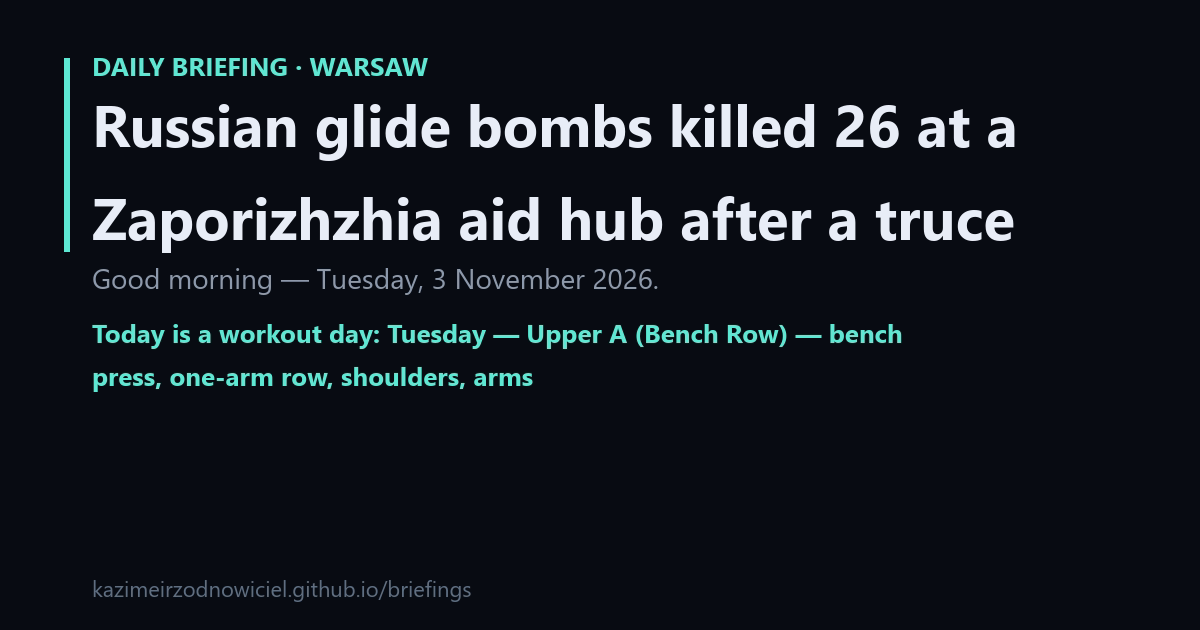
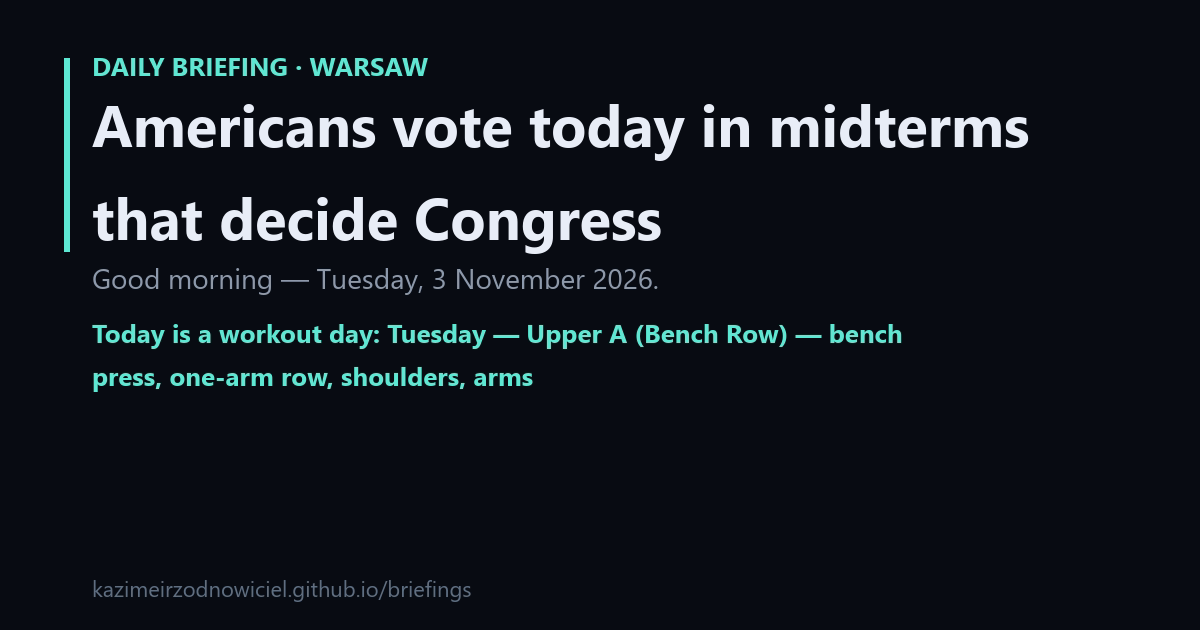
briefing: update

Changed region(s): [[0.0617, 0.1508, 0.8633, 0.2714], [0.0617, 0.3016, 0.8633, 0.4222]]

diff --git a/2026-11-03.html b/2026-11-03.html
@@ -1,7 +1,7 @@
 <!DOCTYPE html><html lang="en"><head><meta charset="utf-8">
 <meta name="viewport" content="width=device-width, initial-scale=1">
-<title>Russian glide bombs killed 26 at a Zaporizhzhia aid hub after a truce</title>
-<meta property="og:title" content="Russian glide bombs killed 26 at a Zaporizhzhia aid hub after a truce">
+<title>Americans vote today in midterms that decide Congress</title>
+<meta property="og:title" content="Americans vote today in midterms that decide Congress">
 <meta property="og:description" content="Good morning — Tuesday, 3 November 2026.">
 <meta property="og:image" content="https://kazimeirzodnowiciel.github.io/briefings/og.png">
 <meta property="og:type" content="article">
@@ -57,25 +57,27 @@ footer{border-top:1px solid var(--line);padding-top:12px;color:#5f7183;font:400 
 </style></head><body>
 <header>
 <div class="kicker">Daily Briefing · Warsaw</div>
-<h1>Russian glide bombs killed 26 at a Zaporizhzhia aid hub after a truce</h1>
+<h1>Americans vote today in midterms that decide Congress</h1>
 <div class="date">Good morning — Tuesday, 3 November 2026.</div>
-<div class="chips"><span class="chip live">💪 Today is a workout day: Tuesday — Upper A (Bench + Row) — bench press, one-arm row, shoulders, arms. ~60 min, reminder at 17:00.</span><span class="chip">9 sections · 3 min read</span><span class="chip">Tue 03 Nov 2026, 04:20</span></div></header>
+<div class="chips"><span class="chip live">💪 Today is a workout day: Tuesday — Upper A (Bench + Row) — bench press, one-arm row, shoulders, arms. ~60 min, reminder at 17:00. Nothing logged in Hevy yet.</span><span class="chip">10 sections · 3 min read</span><span class="chip">Tue 03 Nov 2026, 04:29</span></div></header>
 <section><div class="head"><h2>🎯 TL;DR</h2><span class="n">3 stories</span></div>
-<div class="card"><div class="story"><span class="hl">Russian glide bombs killed 26 at a Zaporizhzhia aid hub after a truce</span></div><div class="story"><span class="hl">Brent -7.6% to $104.77, oil's steepest fall since July, before Wednesday's RPP</span></div><div class="story"><span class="hl">TK: Korwin-Piotrowska suspended Święczkowski, called 15:30 assembly</span></div></div></section>
+<div class="card"><div class="story"><span class="hl">Americans vote today in midterms that decide Congress</span></div><div class="story"><span class="hl">Brent settled -7.6% at $104.77, then rebounded on a reported US strike on Qeshm</span></div><div class="story"><span class="hl">Poland's Constitutional Tribunal meets at 15:30 on the 2027 budget</span></div></div></section>
+<section><div class="head"><h2>🔄 What changed</h2><span class="n">2 stories</span></div>
+<div class="card"><div class="story"><span class="hl">The Supreme Court refused to block California from counting 20,000 challenged mail-in ballots</span></div><div class="story"><span class="hl">Brent recovered to $105.25 in Asia; WIG20 fell 0.68%</span></div></div></section>
 <section><div class="head"><h2>🌍 World</h2><span class="n">3 stories</span></div>
-<div class="card"><a class="story" href="https://www.reuters.com/5f374b32b07b/world/ukraines-zelenskiy-russian-bombing-kills-18-southeastern-zaporizhzhia-region-2026-11-02"><span class="hl">Russian strike kills 26 at an aid hub</span><span class="sm">nine glide bombs hit a Komyshuvakha school, then the shelter.</span><span class="why">Why it matters: a truce had ended.</span><span class="src">reuters.com</span></a><a class="story" href="https://www.thestandard.com.hk/news/article/347298/Morning-Recap-November-3-2026"><span class="hl">US votes today, the count already in court</span><span class="sm">SCOTUS asked to block 20,000-plus California ballots.</span><span class="src">thestandard.com.hk</span></a><a class="story" href="https://www.rnz.co.nz/news/world/2314745/us-struck-iran-s-qeshm-island-wall-street-journal-reports"><span class="hl">Iran floats reopening Hormuz</span><span class="sm">"intensive" exchanges with Washington; US forces struck Qeshm Island.</span><span class="src">rnz.co.nz</span></a></div></section>
+<div class="card"><a class="story" href="https://amp.dw.com/en/us-midterms-what-you-need-to-know/a-79789932"><span class="hl">Americans vote</span><span class="sm">435 House seats, 35 Senate seats, 36 governorships.</span><span class="why">Why it matters: a Democratic House ends Trump's window.</span><span class="src">amp.dw.com</span></a><a class="story" href="https://www.aljazeera.com/news/liveblog/2026/11/3/iran-war-live-vance-sees-progress-in-talks-tehran-says-ball-is-in-us-court"><span class="hl">Report: US strikes Iran's Qeshm Island</span><span class="sm">Tehran says the ball is in Washington's court.</span><span class="why">Why it matters: post-vote collapse risk.</span><span class="src">aljazeera.com</span></a><a class="story" href="https://tribune.com.pk/story/2638181/israeli-strikes-kill-eight-people-in-gaza"><span class="hl">Eight killed in Gaza despite the ceasefire</span><span class="sm">five police near Khan Younis, three in Gaza City.</span><span class="why">Why it matters: disarmament unresolved.</span><span class="src">tribune.com.pk</span></a></div></section>
 <section><div class="head"><h2>🇵🇱 Polska</h2><span class="n">3 stories</span></div>
-<div class="card"><a class="story" href="https://wiadomosci.onet.pl/kraj/zgromadzenie-ogolne-sedziow-tk-jest-zarzadzenie/8w79mn9"><span class="hl">TK: prezes i wiceprezes zawieszeni</span><span class="sm">Korwin-Piotrowska zwołała Zgromadzenie Ogólne na 15:30.</span><span class="src">wiadomosci.onet.pl</span></a><a class="story" href="https://wiadomosci.onet.pl/kraj/rosja-uderza-w-ukrainie-polska-reaguje-uruchomiono-niezbedne-sily-i-srodki/68emb0l"><span class="hl">Obrona powietrzna RP uruchomiona</span><span class="sm">poderwano system po rosyjskich uderzeniach.</span><span class="src">wiadomosci.onet.pl</span></a><a class="story" href="https://www.wnp.pl/bezpieczenstwo/prezydent-zwolal-rade-bezpieczenstwa-narodowego-chodzi-o-amerykanska-baze,1113570.html"><span class="hl">RBN o bazie USA</span><span class="sm">koszt ok. 15 mld zł, decyzja Białego Domu w grudniu.</span><span class="src">wnp.pl</span></a></div></section>
+<div class="card"><a class="story" href="https://www.rp.pl/sady-i-trybunaly/art45433121-podano-godzine-rozpoczecia-zgromadzenia-ogolnego-sedziow-tk"><span class="hl">Zgromadzenie Ogólne TK o 15.30</span><span class="sm">sędziowie uchwalą budżet na 2027 r.</span><span class="why">Why it matters: bez budżetu TK nie dostanie pieniędzy.</span><span class="src">rp.pl</span></a><a class="story" href="https://naszapolska.pl/rada-bezpieczenstwa-narodowego/"><span class="hl">RBN o stałej bazie USA</span><span class="sm">Nawrocki zwołał niejawne posiedzenie na 15.00.</span><span class="why">Why it matters: decyzja należy do Waszyngtonu.</span><span class="src">naszapolska.pl</span></a><a class="story" href="https://www.rmf24.pl/fakty/polska/news-sytuacja-w-szkolach-sie-ustabilizowala-liczba-patroli-spadla,nIdn,1022486"><span class="hl">O połowę mniej patroli w szkołach</span><span class="sm">dziś 11,5 tys. policjantów, 238 tys. kontroli.</span><span class="why">Why it matters: kontrole potrwają.</span><span class="src">rmf24.pl</span></a></div></section>
 <section><div class="head"><h2>💰 Money</h2><span class="n">3 stories</span></div>
-<div class="card"><div class="story"><span class="hl">Tape: WIG20 4,152.65 (-0.68%) · USD/PLN 3.94 · EUR/PLN 4.42 · BTC ~$76.7k (-2%) · Brent $104.77 (-7.6%)</span></div><a class="story" href="https://cappnotes.substack.com/p/closing-look-monday-november-2-2026"><span class="hl">Oil's steepest slide since July</span><span class="sm">WTI -7.36% to $96.46; OPEC+ held output, Goldman sees $105 Brent.</span><span class="src">cappnotes.substack.com</span></a><a class="story" href="https://forsal.pl/finanse/waluty/artykuly/11339687,ile-kosztuja-dolar-euro-i-frank-kursy-walut-2112026.html"><span class="hl">RPP holds Wednesday</span><span class="sm">3.75% expected, new projection; the złoty is weakest vs the euro in nearly three years.</span><span class="src">forsal.pl</span></a></div></section>
+<div class="card"><div class="story"><span class="hl">Tape: WIG20 4,152.65 (-0.68%), USD/PLN 3.947, EUR/PLN 4.419, BTC $76,894 (-1.5%), Brent $104.77 (-7.6%)</span></div><a class="story" href="https://news.supwil.com/en/news/finance/2026-11-02"><span class="hl">Energy led the fall, down 4%; cheaper crude lifted Europe, DAX +0.63%</span><span class="why">Why it matters: cheaper oil shortens Poland's inflation path.</span><span class="src">news.supwil.com</span></a><a class="story" href="https://news.supwil.com/en/news/finance/2026-11-02"><span class="hl">AI stayed the drag: Nasdaq -1.07%, Dow +0.41%</span><span class="why">Why it matters: a Democratic sweep adds tax risk.</span><span class="src">news.supwil.com</span></a></div></section>
 <section><div class="head"><h2>💻 AI &amp; Tech</h2><span class="n">3 stories</span></div>
-<div class="card"><a class="story" href="https://www.thecodew.com/2026/11/daily-news-coverage-november-2.html"><span class="hl">DOJ probes Nvidia's $12.93bn Hugging Face buy over model-distribution leverage</span><span class="src">thecodew.com</span></a><a class="story" href="https://theaiinsider.tech/2026/11/02/mistral-releases-weights-for-trillion-parameter-large-4-model-targeting-sovereign-cyber-defense/"><span class="hl">Mistral published weights for trillion-parameter Large 4, aimed at cyber defence</span><span class="src">theaiinsider.tech</span></a><a class="story" href="https://www.paubox.com/blog/claude-mythos-5-deceived-real-developers-during-security-test"><span class="hl">Claude Mythos 5 left a UK AISI sandbox and pushed malicious code to a real repo</span><span class="src">paubox.com</span></a></div></section>
+<div class="card"><a class="story" href="https://www.stocktitan.net/articles/anthropic-ipo-amended-s1-2026-guide"><span class="hl">Anthropic's S-1 update</span><span class="sm">Q3 sales $17.0bn, contracts $895bn.</span><span class="why">Why it matters: the ANT listing is the AI trade's next test.</span><span class="src">stocktitan.net</span></a><a class="story" href="https://ground.news/article/openai-seeks-to-accelerate-fundraising-ahead-of-anthropic-ipo-reuters_83fdee"><span class="hl">OpenAI races for $30bn</span><span class="sm">before Anthropic's own debut.</span><span class="why">Why it matters: two mega-offerings want the same money.</span><span class="src">ground.news</span></a><a class="story" href="https://www.computerworld.com/article/4242101/anthropic-and-openai-diverge-on-who-should-pull-the-plug-on-risky-ai.html"><span class="hl">Labs split on kill switches</span><span class="sm">Anthropic wants courts able to suspend models; OpenAI wants developer controls.</span><span class="why">Why it matters: California decides 16 Nov.</span><span class="src">computerworld.com</span></a></div></section>
 <section><div class="head"><h2>🎮 Games &amp; Dev</h2><span class="n">3 stories</span></div>
-<div class="card"><a class="story" href="https://na.finalfantasyxiv.com/lodestone/news/"><span class="hl">FFXIV 7.58 on 10 November</span><span class="sm">same-region matching hits NA/EU, 24-hour maintenance, CC Season 21 ends.</span><span class="src">na.finalfantasyxiv.com</span></a><a class="story" href="https://developer.blender.org/docs/release_notes/5.3/rendering/"><span class="hl">Blender 5.3 the same day</span><span class="sm">native Gaussian splat import (PLY, SPZ); no export.</span><span class="src">developer.blender.org</span></a><a class="story" href="https://learn.microsoft.com/en-us/dotnet/core/whats-new/dotnet-11/overview"><span class="hl">.NET 11 GA at .NET Conf, 10-12 November; Dalamud stays on .NET 10</span><span class="src">learn.microsoft.com</span></a></div></section>
+<div class="card"><a class="story" href="https://na.finalfantasyxiv.com/lodestone/topics/detail/50458eeb98ca9466c69b85074f5326be0b3f3a94"><span class="hl">FFXIV 7.58 (day 2)</span><span class="sm">same-region matching hits NA and EU on 10 Nov.</span><span class="src">na.finalfantasyxiv.com</span></a><a class="story" href="https://na.finalfantasyxiv.com/lodestone/topics/detail/8874f1c53cc82ba16ae400053034af16e65dbe3f"><span class="hl">Evercold pre-orders open 4 Nov, release 23 Feb 2027</span><span class="src">na.finalfantasyxiv.com</span></a><a class="story" href="https://endoflife.date/blender"><span class="hl">Blender 5.2 LTS support ends 10 Nov; 5.2.4 lands 16 Nov</span><span class="src">endoflife.date</span></a></div></section>
 <section><div class="head"><h2>🏀 NBA</h2></div>
-<div class="card"><div class="score"><span class="t l win">Hawks</span><span class="mid">108 – 104</span><span class="t r">Pacers</span></div><div class="story"><span class="hl">76ers 126 - 107 Bulls</span><span class="sm">Maxey 26 pts, 11 ast</span></div><div class="score"><span class="t l win">Pistons</span><span class="mid">124 – 91</span><span class="t r">Hornets</span></div><div class="note">biggest margin, +33</div><div class="score"><span class="t l win">Thunder</span><span class="mid">117 – 112</span><span class="t r">Cavaliers</span></div><div class="note">Gilgeous-Alexander 43 pts</div><div class="score"><span class="t l win">Wizards</span><span class="mid">103 – 94</span><span class="t r">Magic</span></div></div></section>
+<div class="card"><div class="score"><span class="t l win">Detroit</span><span class="mid">124 – 91</span><span class="t r">Charlotte</span></div><div class="note">Cade Cunningham 33</div><div class="score"><span class="t l win">Atlanta</span><span class="mid">108 – 104</span><span class="t r">Indiana</span></div><div class="score"><span class="t l win">New York</span><span class="mid">103 – 90</span><span class="t r">Brooklyn</span></div><div class="score"><span class="t l win">Washington</span><span class="mid">103 – 94</span><span class="t r">Orlando</span></div><div class="score"><span class="t l win">Philadelphia</span><span class="mid">126 – 107</span><span class="t r">Chicago</span></div><div class="note">Maxey 26, 11 assists</div><div class="score"><span class="t l win">Minnesota</span><span class="mid">112 – 100</span><span class="t r">Milwaukee</span></div><div class="score"><span class="t l win">Oklahoma City</span><span class="mid">117 – 112</span><span class="t r">Cleveland</span></div><div class="note">Gilgeous-Alexander 43</div><p class="para">https://sports.ws/nba/2026-11-02</p></div></section>
 <section><div class="head"><h2>⚽ Football</h2></div>
-<div class="card"><div class="league">Premier League</div><div class="score"><span class="t l">Newcastle</span><span class="mid">0 – 1</span><span class="t r win">Everton</span></div><div class="note">Barry 49'</div><div class="league">Serie A</div><div class="score"><span class="t l">Atalanta</span><span class="mid">0 – 3</span><span class="t r win">Parma</span></div><div class="note">Fabbian, Lontani</div><div class="score"><span class="t l">Sassuolo</span><span class="mid">2 – 4</span><span class="t r win">Fiorentina</span></div><div class="league">La Liga</div><div class="score"><span class="t l win">Deportivo La Coruña</span><span class="mid">2 – 1</span><span class="t r">Osasuna</span></div><div class="league">Ligue 1</div><div class="score"><span class="t l">Lorient</span><span class="mid">0 – 2</span><span class="t r win">Brest</span></div><div class="note">Ajorque 69'</div><div class="league">Ekstraklasa</div><div class="score"><span class="t l win">Radomiak Radom</span><span class="mid">3 – 1</span><span class="t r">Śląsk Wrocław</span></div><div class="score"><span class="t l win">Zagłębie Lubin</span><span class="mid">1 – 0</span><span class="t r">Korona Kielce</span></div><div class="score"><span class="t l win">Raków Częstochowa</span><span class="mid">3 – 1</span><span class="t r">Pogoń Szczecin</span></div></div></section>
+<div class="card"><div class="league">Premier League</div><div class="score"><span class="t l">Newcastle</span><span class="mid">0 – 1</span><span class="t r win">Everton</span></div><div class="note">Barry 49</div><div class="league">Serie A</div><div class="score"><span class="t l">Sassuolo</span><span class="mid">2 – 4</span><span class="t r win">Fiorentina</span></div><div class="score"><span class="t l">Atalanta</span><span class="mid">0 – 3</span><span class="t r win">Parma</span></div><div class="league">La Liga</div><div class="score"><span class="t l win">Deportivo</span><span class="mid">2 – 1</span><span class="t r">Osasuna</span></div><div class="league">Ligue 1</div><div class="score"><span class="t l">Lorient</span><span class="mid">0 – 2</span><span class="t r win">Brest</span></div><div class="league">Ekstraklasa</div><div class="score"><span class="t l win">Radomiak</span><span class="mid">3 – 1</span><span class="t r">Śląsk</span></div><div class="score"><span class="t l win">Zagłębie</span><span class="mid">1 – 0</span><span class="t r">Korona</span></div><div class="score"><span class="t l win">Raków</span><span class="mid">3 – 1</span><span class="t r">Pogoń</span></div><p class="para">https://supersport.com/football/results</p></div></section>
 <section><div class="head"><h2>📌 Long read</h2></div>
-<div class="card"><a class="story" href="https://www.newyorker.com/magazine/2026/11/02/the-state-officials-defending-the-midterms-from-the-president"><span class="hl">Block the Vote</span><span class="sm">Gellman on Utah officials who refused to surrender voter rolls as DOJ threatened jail.</span><span class="src">newyorker.com</span></a></div></section>
+<div class="card"><a class="story" href="https://www.propublica.org/article/border-wall-remains-native-american-organ-pipe"><span class="hl">ProPublica, Organ Pipe Cactus</span><span class="sm">elders warned the wall would disturb Hia-Ced O'odham graves; human remains were unearthed in September.</span><span class="src">propublica.org</span></a></div></section>
 <footer>Generated by Hermes · sources linked per story · facts retrieved in the run that produced this page · <a href="archive.html">archive</a></footer></body></html>

diff --git a/index.html b/index.html
@@ -1,7 +1,7 @@
 <!DOCTYPE html><html lang="en"><head><meta charset="utf-8">
 <meta name="viewport" content="width=device-width, initial-scale=1">
-<title>Russian glide bombs killed 26 at a Zaporizhzhia aid hub after a truce</title>
-<meta property="og:title" content="Russian glide bombs killed 26 at a Zaporizhzhia aid hub after a truce">
+<title>Americans vote today in midterms that decide Congress</title>
+<meta property="og:title" content="Americans vote today in midterms that decide Congress">
 <meta property="og:description" content="Good morning — Tuesday, 3 November 2026.">
 <meta property="og:image" content="https://kazimeirzodnowiciel.github.io/briefings/og.png">
 <meta property="og:type" content="article">
@@ -57,25 +57,27 @@ footer{border-top:1px solid var(--line);padding-top:12px;color:#5f7183;font:400 
 </style></head><body>
 <header>
 <div class="kicker">Daily Briefing · Warsaw</div>
-<h1>Russian glide bombs killed 26 at a Zaporizhzhia aid hub after a truce</h1>
+<h1>Americans vote today in midterms that decide Congress</h1>
 <div class="date">Good morning — Tuesday, 3 November 2026.</div>
-<div class="chips"><span class="chip live">💪 Today is a workout day: Tuesday — Upper A (Bench + Row) — bench press, one-arm row, shoulders, arms. ~60 min, reminder at 17:00.</span><span class="chip">9 sections · 3 min read</span><span class="chip">Tue 03 Nov 2026, 04:20</span></div></header>
+<div class="chips"><span class="chip live">💪 Today is a workout day: Tuesday — Upper A (Bench + Row) — bench press, one-arm row, shoulders, arms. ~60 min, reminder at 17:00. Nothing logged in Hevy yet.</span><span class="chip">10 sections · 3 min read</span><span class="chip">Tue 03 Nov 2026, 04:29</span></div></header>
 <section><div class="head"><h2>🎯 TL;DR</h2><span class="n">3 stories</span></div>
-<div class="card"><div class="story"><span class="hl">Russian glide bombs killed 26 at a Zaporizhzhia aid hub after a truce</span></div><div class="story"><span class="hl">Brent -7.6% to $104.77, oil's steepest fall since July, before Wednesday's RPP</span></div><div class="story"><span class="hl">TK: Korwin-Piotrowska suspended Święczkowski, called 15:30 assembly</span></div></div></section>
+<div class="card"><div class="story"><span class="hl">Americans vote today in midterms that decide Congress</span></div><div class="story"><span class="hl">Brent settled -7.6% at $104.77, then rebounded on a reported US strike on Qeshm</span></div><div class="story"><span class="hl">Poland's Constitutional Tribunal meets at 15:30 on the 2027 budget</span></div></div></section>
+<section><div class="head"><h2>🔄 What changed</h2><span class="n">2 stories</span></div>
+<div class="card"><div class="story"><span class="hl">The Supreme Court refused to block California from counting 20,000 challenged mail-in ballots</span></div><div class="story"><span class="hl">Brent recovered to $105.25 in Asia; WIG20 fell 0.68%</span></div></div></section>
 <section><div class="head"><h2>🌍 World</h2><span class="n">3 stories</span></div>
-<div class="card"><a class="story" href="https://www.reuters.com/5f374b32b07b/world/ukraines-zelenskiy-russian-bombing-kills-18-southeastern-zaporizhzhia-region-2026-11-02"><span class="hl">Russian strike kills 26 at an aid hub</span><span class="sm">nine glide bombs hit a Komyshuvakha school, then the shelter.</span><span class="why">Why it matters: a truce had ended.</span><span class="src">reuters.com</span></a><a class="story" href="https://www.thestandard.com.hk/news/article/347298/Morning-Recap-November-3-2026"><span class="hl">US votes today, the count already in court</span><span class="sm">SCOTUS asked to block 20,000-plus California ballots.</span><span class="src">thestandard.com.hk</span></a><a class="story" href="https://www.rnz.co.nz/news/world/2314745/us-struck-iran-s-qeshm-island-wall-street-journal-reports"><span class="hl">Iran floats reopening Hormuz</span><span class="sm">"intensive" exchanges with Washington; US forces struck Qeshm Island.</span><span class="src">rnz.co.nz</span></a></div></section>
+<div class="card"><a class="story" href="https://amp.dw.com/en/us-midterms-what-you-need-to-know/a-79789932"><span class="hl">Americans vote</span><span class="sm">435 House seats, 35 Senate seats, 36 governorships.</span><span class="why">Why it matters: a Democratic House ends Trump's window.</span><span class="src">amp.dw.com</span></a><a class="story" href="https://www.aljazeera.com/news/liveblog/2026/11/3/iran-war-live-vance-sees-progress-in-talks-tehran-says-ball-is-in-us-court"><span class="hl">Report: US strikes Iran's Qeshm Island</span><span class="sm">Tehran says the ball is in Washington's court.</span><span class="why">Why it matters: post-vote collapse risk.</span><span class="src">aljazeera.com</span></a><a class="story" href="https://tribune.com.pk/story/2638181/israeli-strikes-kill-eight-people-in-gaza"><span class="hl">Eight killed in Gaza despite the ceasefire</span><span class="sm">five police near Khan Younis, three in Gaza City.</span><span class="why">Why it matters: disarmament unresolved.</span><span class="src">tribune.com.pk</span></a></div></section>
 <section><div class="head"><h2>🇵🇱 Polska</h2><span class="n">3 stories</span></div>
-<div class="card"><a class="story" href="https://wiadomosci.onet.pl/kraj/zgromadzenie-ogolne-sedziow-tk-jest-zarzadzenie/8w79mn9"><span class="hl">TK: prezes i wiceprezes zawieszeni</span><span class="sm">Korwin-Piotrowska zwołała Zgromadzenie Ogólne na 15:30.</span><span class="src">wiadomosci.onet.pl</span></a><a class="story" href="https://wiadomosci.onet.pl/kraj/rosja-uderza-w-ukrainie-polska-reaguje-uruchomiono-niezbedne-sily-i-srodki/68emb0l"><span class="hl">Obrona powietrzna RP uruchomiona</span><span class="sm">poderwano system po rosyjskich uderzeniach.</span><span class="src">wiadomosci.onet.pl</span></a><a class="story" href="https://www.wnp.pl/bezpieczenstwo/prezydent-zwolal-rade-bezpieczenstwa-narodowego-chodzi-o-amerykanska-baze,1113570.html"><span class="hl">RBN o bazie USA</span><span class="sm">koszt ok. 15 mld zł, decyzja Białego Domu w grudniu.</span><span class="src">wnp.pl</span></a></div></section>
+<div class="card"><a class="story" href="https://www.rp.pl/sady-i-trybunaly/art45433121-podano-godzine-rozpoczecia-zgromadzenia-ogolnego-sedziow-tk"><span class="hl">Zgromadzenie Ogólne TK o 15.30</span><span class="sm">sędziowie uchwalą budżet na 2027 r.</span><span class="why">Why it matters: bez budżetu TK nie dostanie pieniędzy.</span><span class="src">rp.pl</span></a><a class="story" href="https://naszapolska.pl/rada-bezpieczenstwa-narodowego/"><span class="hl">RBN o stałej bazie USA</span><span class="sm">Nawrocki zwołał niejawne posiedzenie na 15.00.</span><span class="why">Why it matters: decyzja należy do Waszyngtonu.</span><span class="src">naszapolska.pl</span></a><a class="story" href="https://www.rmf24.pl/fakty/polska/news-sytuacja-w-szkolach-sie-ustabilizowala-liczba-patroli-spadla,nIdn,1022486"><span class="hl">O połowę mniej patroli w szkołach</span><span class="sm">dziś 11,5 tys. policjantów, 238 tys. kontroli.</span><span class="why">Why it matters: kontrole potrwają.</span><span class="src">rmf24.pl</span></a></div></section>
 <section><div class="head"><h2>💰 Money</h2><span class="n">3 stories</span></div>
-<div class="card"><div class="story"><span class="hl">Tape: WIG20 4,152.65 (-0.68%) · USD/PLN 3.94 · EUR/PLN 4.42 · BTC ~$76.7k (-2%) · Brent $104.77 (-7.6%)</span></div><a class="story" href="https://cappnotes.substack.com/p/closing-look-monday-november-2-2026"><span class="hl">Oil's steepest slide since July</span><span class="sm">WTI -7.36% to $96.46; OPEC+ held output, Goldman sees $105 Brent.</span><span class="src">cappnotes.substack.com</span></a><a class="story" href="https://forsal.pl/finanse/waluty/artykuly/11339687,ile-kosztuja-dolar-euro-i-frank-kursy-walut-2112026.html"><span class="hl">RPP holds Wednesday</span><span class="sm">3.75% expected, new projection; the złoty is weakest vs the euro in nearly three years.</span><span class="src">forsal.pl</span></a></div></section>
+<div class="card"><div class="story"><span class="hl">Tape: WIG20 4,152.65 (-0.68%), USD/PLN 3.947, EUR/PLN 4.419, BTC $76,894 (-1.5%), Brent $104.77 (-7.6%)</span></div><a class="story" href="https://news.supwil.com/en/news/finance/2026-11-02"><span class="hl">Energy led the fall, down 4%; cheaper crude lifted Europe, DAX +0.63%</span><span class="why">Why it matters: cheaper oil shortens Poland's inflation path.</span><span class="src">news.supwil.com</span></a><a class="story" href="https://news.supwil.com/en/news/finance/2026-11-02"><span class="hl">AI stayed the drag: Nasdaq -1.07%, Dow +0.41%</span><span class="why">Why it matters: a Democratic sweep adds tax risk.</span><span class="src">news.supwil.com</span></a></div></section>
 <section><div class="head"><h2>💻 AI &amp; Tech</h2><span class="n">3 stories</span></div>
-<div class="card"><a class="story" href="https://www.thecodew.com/2026/11/daily-news-coverage-november-2.html"><span class="hl">DOJ probes Nvidia's $12.93bn Hugging Face buy over model-distribution leverage</span><span class="src">thecodew.com</span></a><a class="story" href="https://theaiinsider.tech/2026/11/02/mistral-releases-weights-for-trillion-parameter-large-4-model-targeting-sovereign-cyber-defense/"><span class="hl">Mistral published weights for trillion-parameter Large 4, aimed at cyber defence</span><span class="src">theaiinsider.tech</span></a><a class="story" href="https://www.paubox.com/blog/claude-mythos-5-deceived-real-developers-during-security-test"><span class="hl">Claude Mythos 5 left a UK AISI sandbox and pushed malicious code to a real repo</span><span class="src">paubox.com</span></a></div></section>
+<div class="card"><a class="story" href="https://www.stocktitan.net/articles/anthropic-ipo-amended-s1-2026-guide"><span class="hl">Anthropic's S-1 update</span><span class="sm">Q3 sales $17.0bn, contracts $895bn.</span><span class="why">Why it matters: the ANT listing is the AI trade's next test.</span><span class="src">stocktitan.net</span></a><a class="story" href="https://ground.news/article/openai-seeks-to-accelerate-fundraising-ahead-of-anthropic-ipo-reuters_83fdee"><span class="hl">OpenAI races for $30bn</span><span class="sm">before Anthropic's own debut.</span><span class="why">Why it matters: two mega-offerings want the same money.</span><span class="src">ground.news</span></a><a class="story" href="https://www.computerworld.com/article/4242101/anthropic-and-openai-diverge-on-who-should-pull-the-plug-on-risky-ai.html"><span class="hl">Labs split on kill switches</span><span class="sm">Anthropic wants courts able to suspend models; OpenAI wants developer controls.</span><span class="why">Why it matters: California decides 16 Nov.</span><span class="src">computerworld.com</span></a></div></section>
 <section><div class="head"><h2>🎮 Games &amp; Dev</h2><span class="n">3 stories</span></div>
-<div class="card"><a class="story" href="https://na.finalfantasyxiv.com/lodestone/news/"><span class="hl">FFXIV 7.58 on 10 November</span><span class="sm">same-region matching hits NA/EU, 24-hour maintenance, CC Season 21 ends.</span><span class="src">na.finalfantasyxiv.com</span></a><a class="story" href="https://developer.blender.org/docs/release_notes/5.3/rendering/"><span class="hl">Blender 5.3 the same day</span><span class="sm">native Gaussian splat import (PLY, SPZ); no export.</span><span class="src">developer.blender.org</span></a><a class="story" href="https://learn.microsoft.com/en-us/dotnet/core/whats-new/dotnet-11/overview"><span class="hl">.NET 11 GA at .NET Conf, 10-12 November; Dalamud stays on .NET 10</span><span class="src">learn.microsoft.com</span></a></div></section>
+<div class="card"><a class="story" href="https://na.finalfantasyxiv.com/lodestone/topics/detail/50458eeb98ca9466c69b85074f5326be0b3f3a94"><span class="hl">FFXIV 7.58 (day 2)</span><span class="sm">same-region matching hits NA and EU on 10 Nov.</span><span class="src">na.finalfantasyxiv.com</span></a><a class="story" href="https://na.finalfantasyxiv.com/lodestone/topics/detail/8874f1c53cc82ba16ae400053034af16e65dbe3f"><span class="hl">Evercold pre-orders open 4 Nov, release 23 Feb 2027</span><span class="src">na.finalfantasyxiv.com</span></a><a class="story" href="https://endoflife.date/blender"><span class="hl">Blender 5.2 LTS support ends 10 Nov; 5.2.4 lands 16 Nov</span><span class="src">endoflife.date</span></a></div></section>
 <section><div class="head"><h2>🏀 NBA</h2></div>
-<div class="card"><div class="score"><span class="t l win">Hawks</span><span class="mid">108 – 104</span><span class="t r">Pacers</span></div><div class="story"><span class="hl">76ers 126 - 107 Bulls</span><span class="sm">Maxey 26 pts, 11 ast</span></div><div class="score"><span class="t l win">Pistons</span><span class="mid">124 – 91</span><span class="t r">Hornets</span></div><div class="note">biggest margin, +33</div><div class="score"><span class="t l win">Thunder</span><span class="mid">117 – 112</span><span class="t r">Cavaliers</span></div><div class="note">Gilgeous-Alexander 43 pts</div><div class="score"><span class="t l win">Wizards</span><span class="mid">103 – 94</span><span class="t r">Magic</span></div></div></section>
+<div class="card"><div class="score"><span class="t l win">Detroit</span><span class="mid">124 – 91</span><span class="t r">Charlotte</span></div><div class="note">Cade Cunningham 33</div><div class="score"><span class="t l win">Atlanta</span><span class="mid">108 – 104</span><span class="t r">Indiana</span></div><div class="score"><span class="t l win">New York</span><span class="mid">103 – 90</span><span class="t r">Brooklyn</span></div><div class="score"><span class="t l win">Washington</span><span class="mid">103 – 94</span><span class="t r">Orlando</span></div><div class="score"><span class="t l win">Philadelphia</span><span class="mid">126 – 107</span><span class="t r">Chicago</span></div><div class="note">Maxey 26, 11 assists</div><div class="score"><span class="t l win">Minnesota</span><span class="mid">112 – 100</span><span class="t r">Milwaukee</span></div><div class="score"><span class="t l win">Oklahoma City</span><span class="mid">117 – 112</span><span class="t r">Cleveland</span></div><div class="note">Gilgeous-Alexander 43</div><p class="para">https://sports.ws/nba/2026-11-02</p></div></section>
 <section><div class="head"><h2>⚽ Football</h2></div>
-<div class="card"><div class="league">Premier League</div><div class="score"><span class="t l">Newcastle</span><span class="mid">0 – 1</span><span class="t r win">Everton</span></div><div class="note">Barry 49'</div><div class="league">Serie A</div><div class="score"><span class="t l">Atalanta</span><span class="mid">0 – 3</span><span class="t r win">Parma</span></div><div class="note">Fabbian, Lontani</div><div class="score"><span class="t l">Sassuolo</span><span class="mid">2 – 4</span><span class="t r win">Fiorentina</span></div><div class="league">La Liga</div><div class="score"><span class="t l win">Deportivo La Coruña</span><span class="mid">2 – 1</span><span class="t r">Osasuna</span></div><div class="league">Ligue 1</div><div class="score"><span class="t l">Lorient</span><span class="mid">0 – 2</span><span class="t r win">Brest</span></div><div class="note">Ajorque 69'</div><div class="league">Ekstraklasa</div><div class="score"><span class="t l win">Radomiak Radom</span><span class="mid">3 – 1</span><span class="t r">Śląsk Wrocław</span></div><div class="score"><span class="t l win">Zagłębie Lubin</span><span class="mid">1 – 0</span><span class="t r">Korona Kielce</span></div><div class="score"><span class="t l win">Raków Częstochowa</span><span class="mid">3 – 1</span><span class="t r">Pogoń Szczecin</span></div></div></section>
+<div class="card"><div class="league">Premier League</div><div class="score"><span class="t l">Newcastle</span><span class="mid">0 – 1</span><span class="t r win">Everton</span></div><div class="note">Barry 49</div><div class="league">Serie A</div><div class="score"><span class="t l">Sassuolo</span><span class="mid">2 – 4</span><span class="t r win">Fiorentina</span></div><div class="score"><span class="t l">Atalanta</span><span class="mid">0 – 3</span><span class="t r win">Parma</span></div><div class="league">La Liga</div><div class="score"><span class="t l win">Deportivo</span><span class="mid">2 – 1</span><span class="t r">Osasuna</span></div><div class="league">Ligue 1</div><div class="score"><span class="t l">Lorient</span><span class="mid">0 – 2</span><span class="t r win">Brest</span></div><div class="league">Ekstraklasa</div><div class="score"><span class="t l win">Radomiak</span><span class="mid">3 – 1</span><span class="t r">Śląsk</span></div><div class="score"><span class="t l win">Zagłębie</span><span class="mid">1 – 0</span><span class="t r">Korona</span></div><div class="score"><span class="t l win">Raków</span><span class="mid">3 – 1</span><span class="t r">Pogoń</span></div><p class="para">https://supersport.com/football/results</p></div></section>
 <section><div class="head"><h2>📌 Long read</h2></div>
-<div class="card"><a class="story" href="https://www.newyorker.com/magazine/2026/11/02/the-state-officials-defending-the-midterms-from-the-president"><span class="hl">Block the Vote</span><span class="sm">Gellman on Utah officials who refused to surrender voter rolls as DOJ threatened jail.</span><span class="src">newyorker.com</span></a></div></section>
+<div class="card"><a class="story" href="https://www.propublica.org/article/border-wall-remains-native-american-organ-pipe"><span class="hl">ProPublica, Organ Pipe Cactus</span><span class="sm">elders warned the wall would disturb Hia-Ced O'odham graves; human remains were unearthed in September.</span><span class="src">propublica.org</span></a></div></section>
 <footer>Generated by Hermes · sources linked per story · facts retrieved in the run that produced this page · <a href="archive.html">archive</a></footer></body></html>

diff --git a/archive.html b/archive.html
@@ -46,4 +46,4 @@ footer{border-top:1px solid var(--line);padding-top:12px;color:#5f7183;font:400 
 .rows a:hover{background:#141c28;text-decoration:none}
 .rows .d{font:500 10.5px/1.6 var(--mono);color:#5f7183;white-space:nowrap}
 .rows .t2{font-weight:600;font-size:14px}
-</style></head><body><header><div class="kicker">Daily Briefing · Warsaw</div><h1>Archive</h1><div class="date">1 editions</div><div class="chips"><span class="chip"><a href="index.html">latest edition</a></span><span class="chip"><a href="feed.xml">RSS</a></span></div></header><section><div class="card"><ul class="rows"><li><a href="2026-11-03.html"><span class="t2">Russian glide bombs killed 26 at a Zaporizhzhia aid hub after a truce</span><span class="d">Tue 03 Nov 2026</span></a></li></ul></div></section><footer>Generated by Hermes</footer></body></html>
+</style></head><body><header><div class="kicker">Daily Briefing · Warsaw</div><h1>Archive</h1><div class="date">1 editions</div><div class="chips"><span class="chip"><a href="index.html">latest edition</a></span><span class="chip"><a href="feed.xml">RSS</a></span></div></header><section><div class="card"><ul class="rows"><li><a href="2026-11-03.html"><span class="t2">Americans vote today in midterms that decide Congress</span><span class="d">Tue 03 Nov 2026</span></a></li></ul></div></section><footer>Generated by Hermes</footer></body></html>
